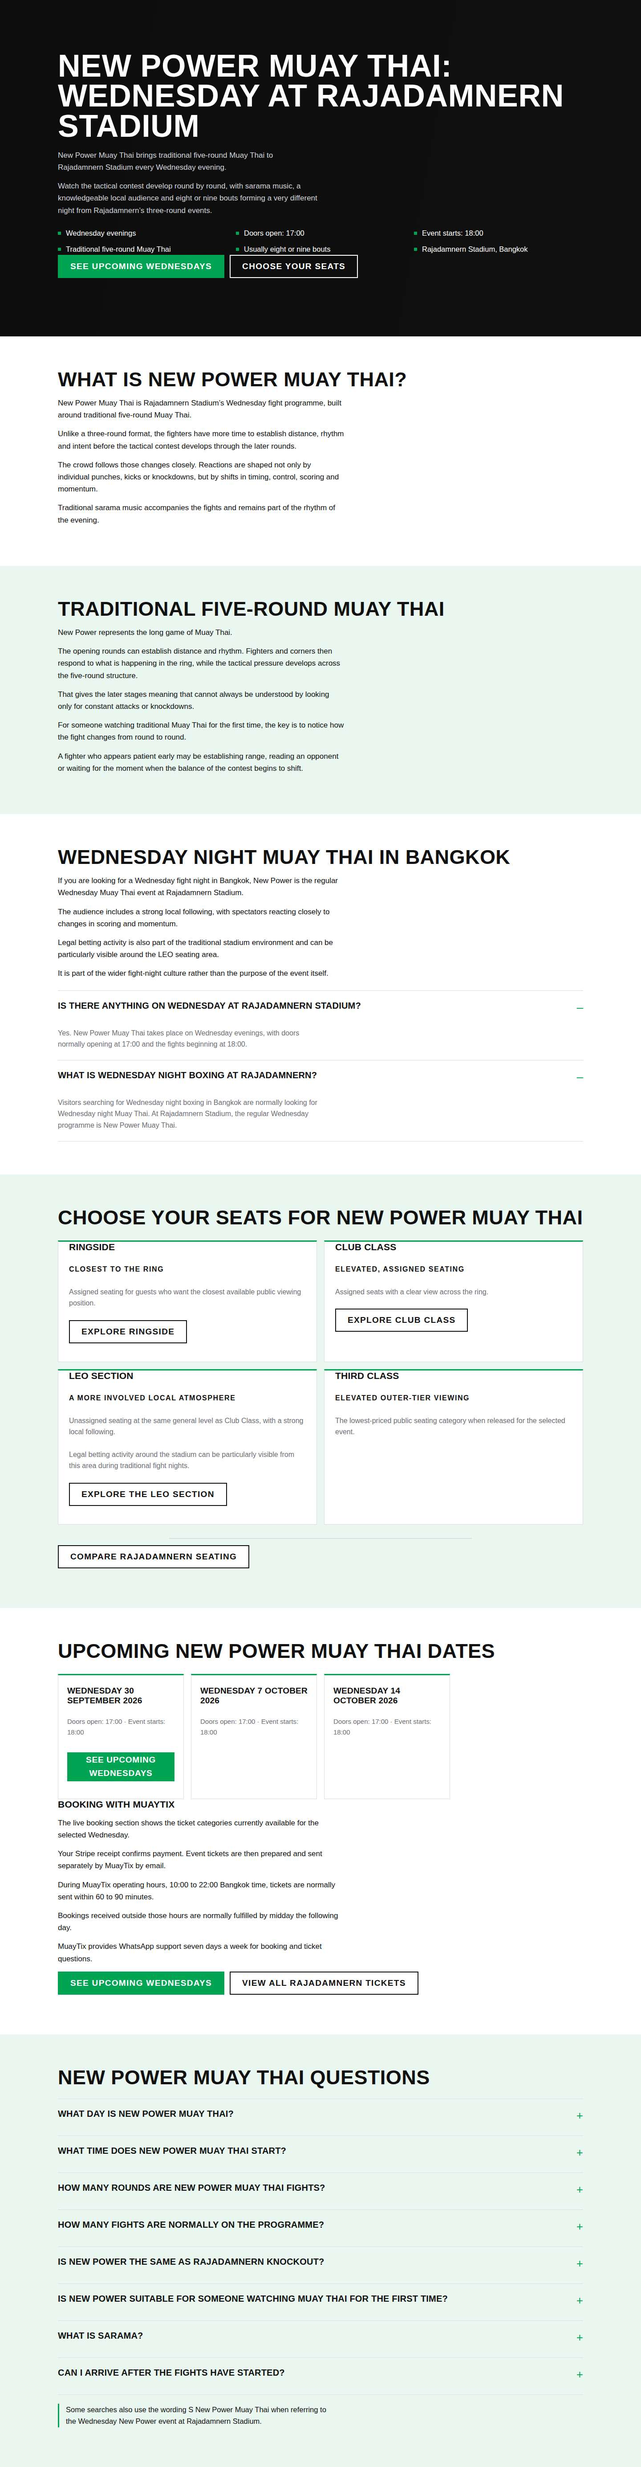
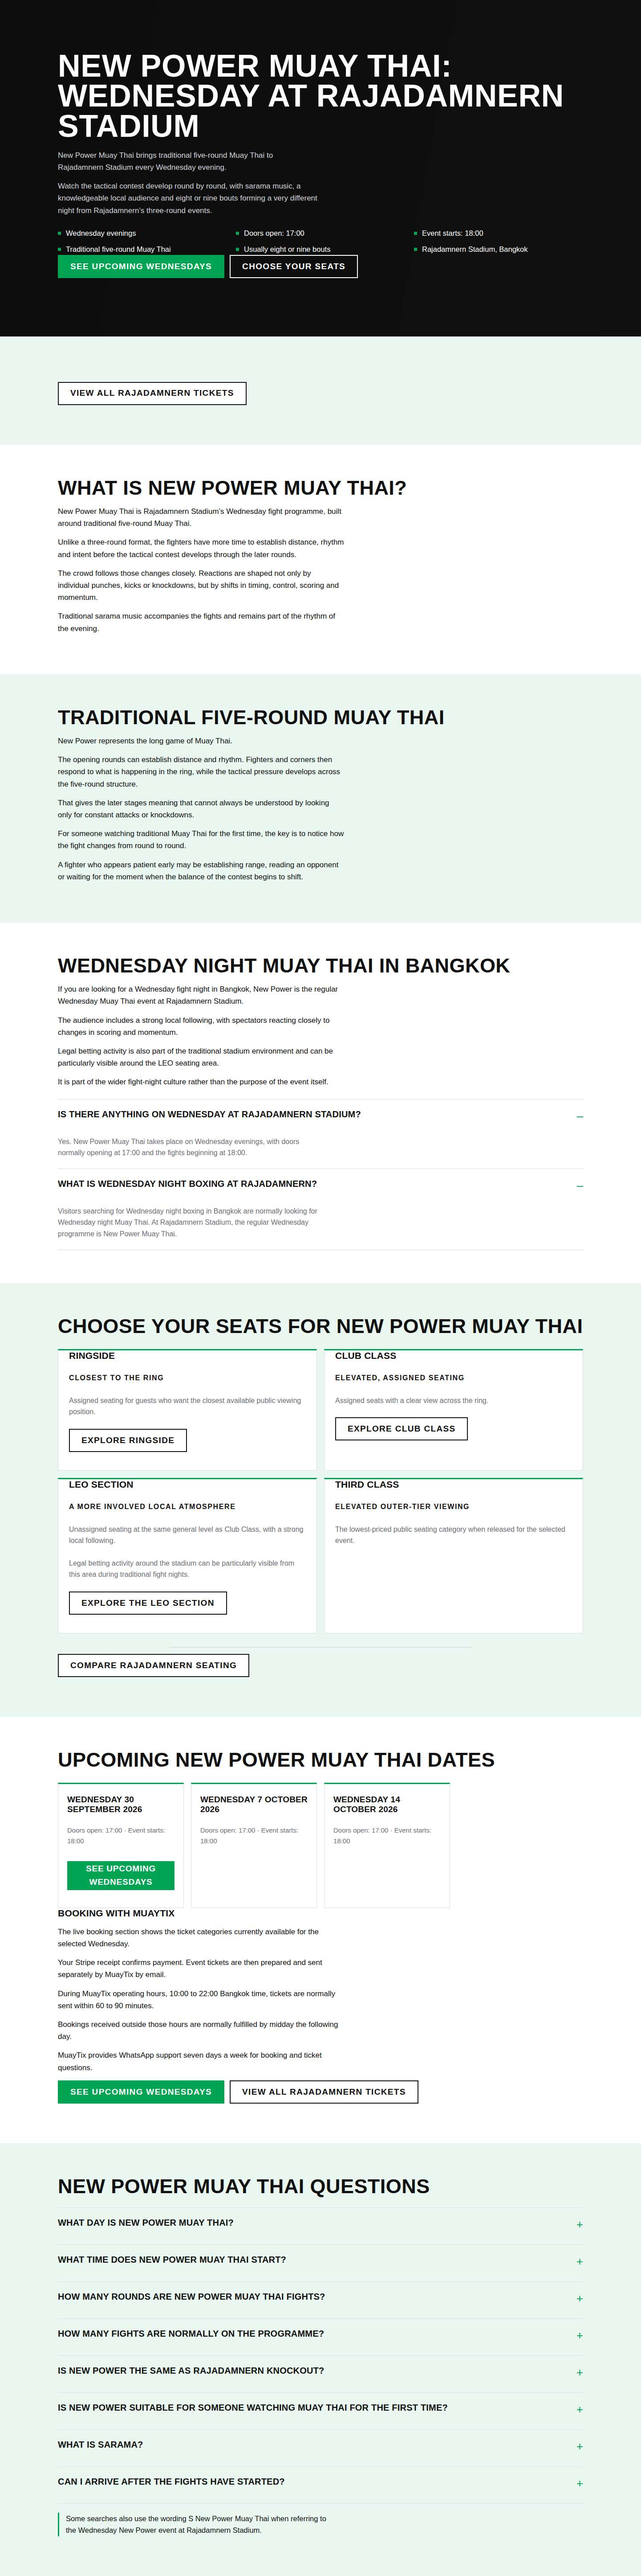
New Power: add the evergreen booking widget, missing since this page existed
Jason confirmed directly (screenshots, 30 September 2026) that Petchyindee,
Knockout and RWS all carry the live booking widget on their evergreen pages,
filtered to that series. New Power never had one on its evergreen page, on
any branch, in any commit, in this repository's full history -- checked
exhaustively before this fix, not just this file's own log.

Added, mirroring pages/petchyindee/gen.mjs exactly: a data-series mount
directly beneath the hero, with a secondary link to the general tickets
page, reusing the same approved button text (dates.cta_secondary) already
on this page lower down. series_slug 'new-power' added to dynamic-data.json,
same field and sourcing pattern as Petchyindee's.

Both pages re-verified after: 0 horizontal overflow at six widths, 0
elements forced centre by the hostile-host check, 0 contrast failures, 0
invented links, all locked copy verbatim.

Not independently confirmed: the widget itself cannot render in this
environment's static checks, which never execute agent-tix/widget/widget.js
against live data, only inspect the markup it mounts into. The div is in
the right place with the right data-series attribute, matching Petchyindee's
mount exactly; whether it actually populates needs a look once this is
pasted into Tilda, same limitation as every other unverifiable-here claim
in this project.

Claude-Session: https://claude.ai/code/session_01KJfBegVkwrLgzgRP3UNWWd

diff --git a/pages/new-power/hub-source.html b/pages/new-power/hub-source.html
@@ -719,6 +719,22 @@
     </div>
   </header>
 
+  <!-- The evergreen booking widget. Every other recurring-series page in this
+       project (Petchyindee, and per Jason directly on 30 September 2026,
+       Knockout and RWS) carries this on its evergreen page, filtered to that
+       series with data-series so only New Power Wednesdays are offered. This
+       page never had it: confirmed against the full git history of every
+       branch in this repository, not just this file, with zero trace of a
+       data-series (or any dateless) mount ever existing here. Added now. -->
+  <section class="mtx-np__band mtx-np__band--paper" id="book">
+    <div class="mtx-np__shell">
+      <div class="muaytix-ticket-selector" data-series="new-power"></div>
+      <p class="mtx-np__ctarow">
+        <a class="mtx-np__btn mtx-np__btn--outline" href="/rajadamnern-stadium-tickets">View All Rajadamnern Tickets</a>
+      </p>
+    </div>
+  </section>
+
   <section class="mtx-np__band">
     <div class="mtx-np__shell">
       <h2>What is New Power Muay Thai?</h2>

diff --git a/pages/new-power/hub-body.html b/pages/new-power/hub-body.html
@@ -19,6 +19,22 @@
     </div>
   </header>
 
+  <!-- The evergreen booking widget. Every other recurring-series page in this
+       project (Petchyindee, and per Jason directly on 30 September 2026,
+       Knockout and RWS) carries this on its evergreen page, filtered to that
+       series with data-series so only New Power Wednesdays are offered. This
+       page never had it: confirmed against the full git history of every
+       branch in this repository, not just this file, with zero trace of a
+       data-series (or any dateless) mount ever existing here. Added now. -->
+  <section class="mtx-np__band mtx-np__band--paper" id="book">
+    <div class="mtx-np__shell">
+      <div class="muaytix-ticket-selector" data-series="new-power"></div>
+      <p class="mtx-np__ctarow">
+        <a class="mtx-np__btn mtx-np__btn--outline" href="/rajadamnern-stadium-tickets">View All Rajadamnern Tickets</a>
+      </p>
+    </div>
+  </section>
+
   <section class="mtx-np__band">
     <div class="mtx-np__shell">
       <h2>What is New Power Muay Thai?</h2>

diff --git a/pages/new-power/new-power-HUB-PASTE-INTO-TILDA.html b/pages/new-power/new-power-HUB-PASTE-INTO-TILDA.html
@@ -517,6 +517,16 @@
     </div>
   </header>
 
+  
+  <section class="mtx-np__band mtx-np__band--paper" id="book">
+    <div class="mtx-np__shell">
+      <div class="muaytix-ticket-selector" data-series="new-power"></div>
+      <p class="mtx-np__ctarow">
+        <a class="mtx-np__btn mtx-np__btn--outline" href="/rajadamnern-stadium-tickets">View All Rajadamnern Tickets</a>
+      </p>
+    </div>
+  </section>
+
   <section class="mtx-np__band">
     <div class="mtx-np__shell">
       <h2>What is New Power Muay Thai?</h2>
